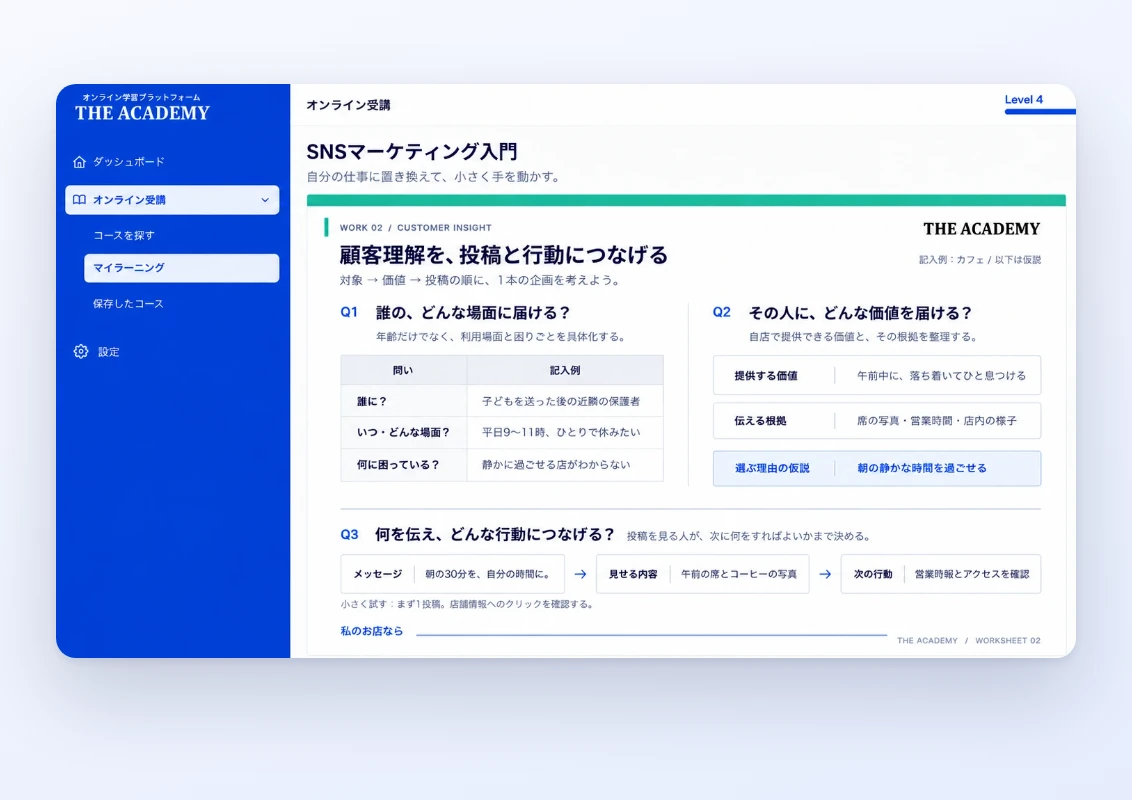
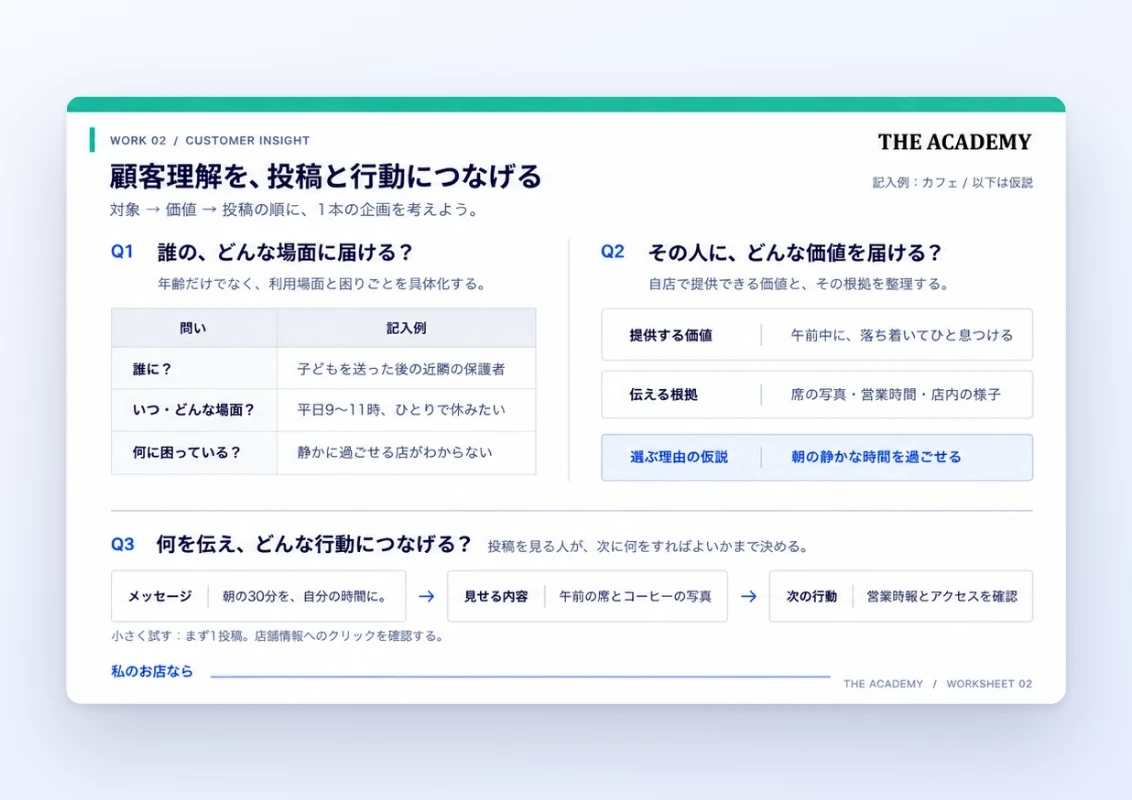
学び方・受講成果：STEP 02「試す」の画像をワークシートのみに変更
Claude-Session: https://claude.ai/code/session_018bY9jRKEdcKYTrkj9d6ZsY

diff --git a/lp/how-to-learn.html b/lp/how-to-learn.html
@@ -1322,7 +1322,7 @@
 </div></section><section class="hl-how" id="how" aria-labelledby="how-title"><div class="wrap">
 <header class="sec-head"><div><p class="sec-kicker">HOW IT WORKS</p><h2 class="sec-title" id="how-title">学びを、<wbr>次の機会までつなぐ。</h2>
 <p class="sec-lead">例：<wbr>カフェのSNSキャンペーンを<wbr>企画した受講生の3か月。<wbr>知る → 試す → 形にする → 共有する の順に、<wbr>ひとつの成果ができるまで。</p></div></header>
-<div class="scg__lab"><span class="hsg__learn">学ぶ</span><span class="hsg__keep">残す</span></div><ol class="scs"><li class="sc"><div class="sc__v sc__v--img"><img src="assets/how/step-01-learn.webp" alt="オンライン受講の画面。SNSマーケティング入門 第2章「顧客を知る」の講義動画とチャプター一覧" loading="lazy"></div><p class="sc__n">STEP 01</p><h3>知る</h3><p>短い講義と事例で、考え方と基本をつかむ。</p></li><li class="sc"><div class="sc__v sc__v--img"><img src="assets/how/step-02-try.webp" alt="オンライン受講の画面。顧客理解のワークシートに、カフェを例に誰に・どんな価値・どんな行動を書き込む" loading="lazy"></div><p class="sc__n">STEP 02</p><h3>試す</h3><p>自分の仕事に置き換えて、小さく手を動かす。</p></li><li class="sc"><div class="sc__v"><div class="om om--sns"><span style="--c:#F7A072">春の<br>キャンペーン</span><span style="--c:#6F97F7">新メニュー<br>登場</span><span style="--c:#7CC49A">お客様の<br>声</span><span style="--c:#FFD66B">週末<br>イベント</span></div></div><p class="sc__n">STEP 03</p><h3>形にする</h3><p>伝わる形に整えて、使える1本を仕上げる。</p></li><li class="sc sc--keep"><div class="sc__v"><div class="om om--pf"><p class="om__t">学びの歩み</p><span class="om__pill">実績を公開しました</span><p class="om__pt">春のSNSキャンペーン企画</p><div class="om__react">♥ 24　💬 5</div></div></div><p class="sc__n">STEP 04</p><h3>共有する</h3><p>背景や過程もポートフォリオに残し、次の機会へ。</p></li></ol></div></section><section class="hl-keep" id="keep" aria-labelledby="keep-title"><div class="wrap">
+<div class="scg__lab"><span class="hsg__learn">学ぶ</span><span class="hsg__keep">残す</span></div><ol class="scs"><li class="sc"><div class="sc__v sc__v--img"><img src="assets/how/step-01-learn.webp" alt="オンライン受講の画面。SNSマーケティング入門 第2章「顧客を知る」の講義動画とチャプター一覧" loading="lazy"></div><p class="sc__n">STEP 01</p><h3>知る</h3><p>短い講義と事例で、考え方と基本をつかむ。</p></li><li class="sc"><div class="sc__v sc__v--img"><img src="assets/how/step-02-try.webp" alt="顧客理解のワークシート。カフェを例に、誰に・どんな価値・どんな行動につなげるかを書き込む" loading="lazy"></div><p class="sc__n">STEP 02</p><h3>試す</h3><p>自分の仕事に置き換えて、小さく手を動かす。</p></li><li class="sc"><div class="sc__v"><div class="om om--sns"><span style="--c:#F7A072">春の<br>キャンペーン</span><span style="--c:#6F97F7">新メニュー<br>登場</span><span style="--c:#7CC49A">お客様の<br>声</span><span style="--c:#FFD66B">週末<br>イベント</span></div></div><p class="sc__n">STEP 03</p><h3>形にする</h3><p>伝わる形に整えて、使える1本を仕上げる。</p></li><li class="sc sc--keep"><div class="sc__v"><div class="om om--pf"><p class="om__t">学びの歩み</p><span class="om__pill">実績を公開しました</span><p class="om__pt">春のSNSキャンペーン企画</p><div class="om__react">♥ 24　💬 5</div></div></div><p class="sc__n">STEP 04</p><h3>共有する</h3><p>背景や過程もポートフォリオに残し、次の機会へ。</p></li></ol></div></section><section class="hl-keep" id="keep" aria-labelledby="keep-title"><div class="wrap">
 <header class="sec-head"><div><p class="sec-kicker">KEEP GOING</p><h2 class="sec-title" id="keep-title">学びを、<wbr>続けられる仕組み。</h2>
 <p class="sec-lead">「続けられるか不安」に、<wbr>3つの仕組みで応えます。</p></div></header>
 <ul class="kcs"><li class="kc"><div class="kc__v"><div class="kv kv--week"><p class="kv__t">今週の学習プラン<span>計 2h</span></p><ol><li class=""><b>月</b><i></i></li><li class="on"><b>火</b><i></i></li><li class=""><b>水</b><i></i></li><li class="on"><b>木</b><i></i></li><li class=""><b>金</b><i></i></li><li class="on2"><b>土</b><i></i></li><li class=""><b>日</b><i></i></li></ol><p class="kv__lg"><i class="on"></i>平日夜 30分<i class="on2"></i>週末 60分</p></div></div><div class="kc__b"><p class="kc__n">01</p><h3>忙しくても、続けられる設計</h3><p>週2h〜。平日夜と週末に分けて、無理なく進められます。</p></div></li><li class="kc"><div class="kc__v"><div class="kv kv--prog"><p class="kv__t">マイラーニング</p><div class="kv__c"><img src="assets/photos/sns-phone.webp" alt=""><div><b>SNSマーケティング実践</b><small>第4章 運用と数値の見方</small><span><em style="width:62%"></em></span></div><strong>62%</strong></div><p class="kv__go">続きから学ぶ ›</p></div></div><div class="kc__b"><p class="kc__n">02</p><h3>進捗が見える</h3><p>マイラーニングで、どこまで進んだか・続きはどこかがひと目で分かります。</p></div></li><li class="kc"><div class="kc__v"><div class="kv kv--feed"><div class="kv__post"><svg class="avt" viewBox="-40 -40 80 80" width="30" height="30" aria-hidden="true"><clipPath id="av022"><circle r="38"/></clipPath><circle r="38" fill="#FFE8D9"/><g clip-path="url(#av022)"><g transform="translate(0 14) scale(1.35)"><path d="M-26 14 C-30 -22 30 -22 26 14 L20 14 C20 -2 4 -8 -6 -12 C-10 -4 -20 0 -20 14Z" fill="#3B2A22" stroke="#012270" stroke-width="3" stroke-linecap="round" stroke-linejoin="round"/><path d="M-30 70 C-30 40 -16 30 0 30 C16 30 30 40 30 70Z" fill="#F76B38" stroke="#012270" stroke-width="3" stroke-linecap="round" stroke-linejoin="round"/><path d="M-6 22 v10 h12 v-10" fill="#FDE4D6" stroke="#012270" stroke-width="3" stroke-linecap="round" stroke-linejoin="round"/><circle cx="0" cy="0" r="22" fill="#FDE4D6" stroke="#012270" stroke-width="3" stroke-linecap="round" stroke-linejoin="round"/><path d="M-21 -4 C-18 -24 18 -24 21 -4 C6 -12 -6 -12 -21 -4Z" fill="#3B2A22" stroke="#012270" stroke-width="3" stroke-linecap="round" stroke-linejoin="round"/><circle cx="-8" cy="2" r="2.4" fill="#012270"/><circle cx="8" cy="2" r="2.4" fill="#012270"/><path d="M-6 10 Q0 19 6 10 Z" fill="#F76B38" stroke="#012270" stroke-width="3" stroke-linecap="round" stroke-linejoin="round" stroke-width="2.4"/><ellipse cx="-14" cy="9" rx="4" ry="2.6" fill="#F9A98A" opacity=".7"/><ellipse cx="14" cy="9" rx="4" ry="2.6" fill="#F9A98A" opacity=".7"/></g></g><circle r="38" fill="none" stroke="#012270" stroke-width="2.5"/></svg><div><b>ゆい</b><small>2時間前</small><p>企画書の構成を見直しました！<br>フィードバックうれしい☺</p><span class="kv__like">♥ 12</span></div></div><div class="kv__post"><svg class="avt" viewBox="-40 -40 80 80" width="30" height="30" aria-hidden="true"><clipPath id="av036"><circle r="38"/></clipPath><circle r="38" fill="#FFE8D9"/><g clip-path="url(#av036)"><g transform="translate(0 14) scale(1.35)"><path d="M-26 14 C-30 -22 30 -22 26 14 L20 14 C20 -2 4 -8 -6 -12 C-10 -4 -20 0 -20 14Z" fill="#3B2A22" stroke="#012270" stroke-width="3" stroke-linecap="round" stroke-linejoin="round"/><path d="M-30 70 C-30 40 -16 30 0 30 C16 30 30 40 30 70Z" fill="#F76B38" stroke="#012270" stroke-width="3" stroke-linecap="round" stroke-linejoin="round"/><path d="M-6 22 v10 h12 v-10" fill="#FDE4D6" stroke="#012270" stroke-width="3" stroke-linecap="round" stroke-linejoin="round"/><circle cx="0" cy="0" r="22" fill="#FDE4D6" stroke="#012270" stroke-width="3" stroke-linecap="round" stroke-linejoin="round"/><path d="M-21 -4 C-18 -24 18 -24 21 -4 C6 -12 -6 -12 -21 -4Z" fill="#3B2A22" stroke="#012270" stroke-width="3" stroke-linecap="round" stroke-linejoin="round"/><circle cx="-8" cy="2" r="2.4" fill="#012270"/><circle cx="8" cy="2" r="2.4" fill="#012270"/><path d="M-6 10 Q0 19 6 10 Z" fill="#F76B38" stroke="#012270" stroke-width="3" stroke-linecap="round" stroke-linejoin="round" stroke-width="2.4"/><ellipse cx="-14" cy="9" rx="4" ry="2.6" fill="#F9A98A" opacity=".7"/><ellipse cx="14" cy="9" rx="4" ry="2.6" fill="#F9A98A" opacity=".7"/></g></g><circle r="38" fill="none" stroke="#012270" stroke-width="2.5"/></svg><div><b>りょう</b><small>昨日</small><p>今週は平日夜に30分ずつ進めた📷</p></div></div></div></div><div class="kc__b"><p class="kc__n">03</p><h3>ひとりにしない</h3><p>フォローしている仲間の学習投稿から、勉強の進め方のヒントが見つかります。仲間の歩みが、続けるモチベーションに。</p></div></li></ul>
